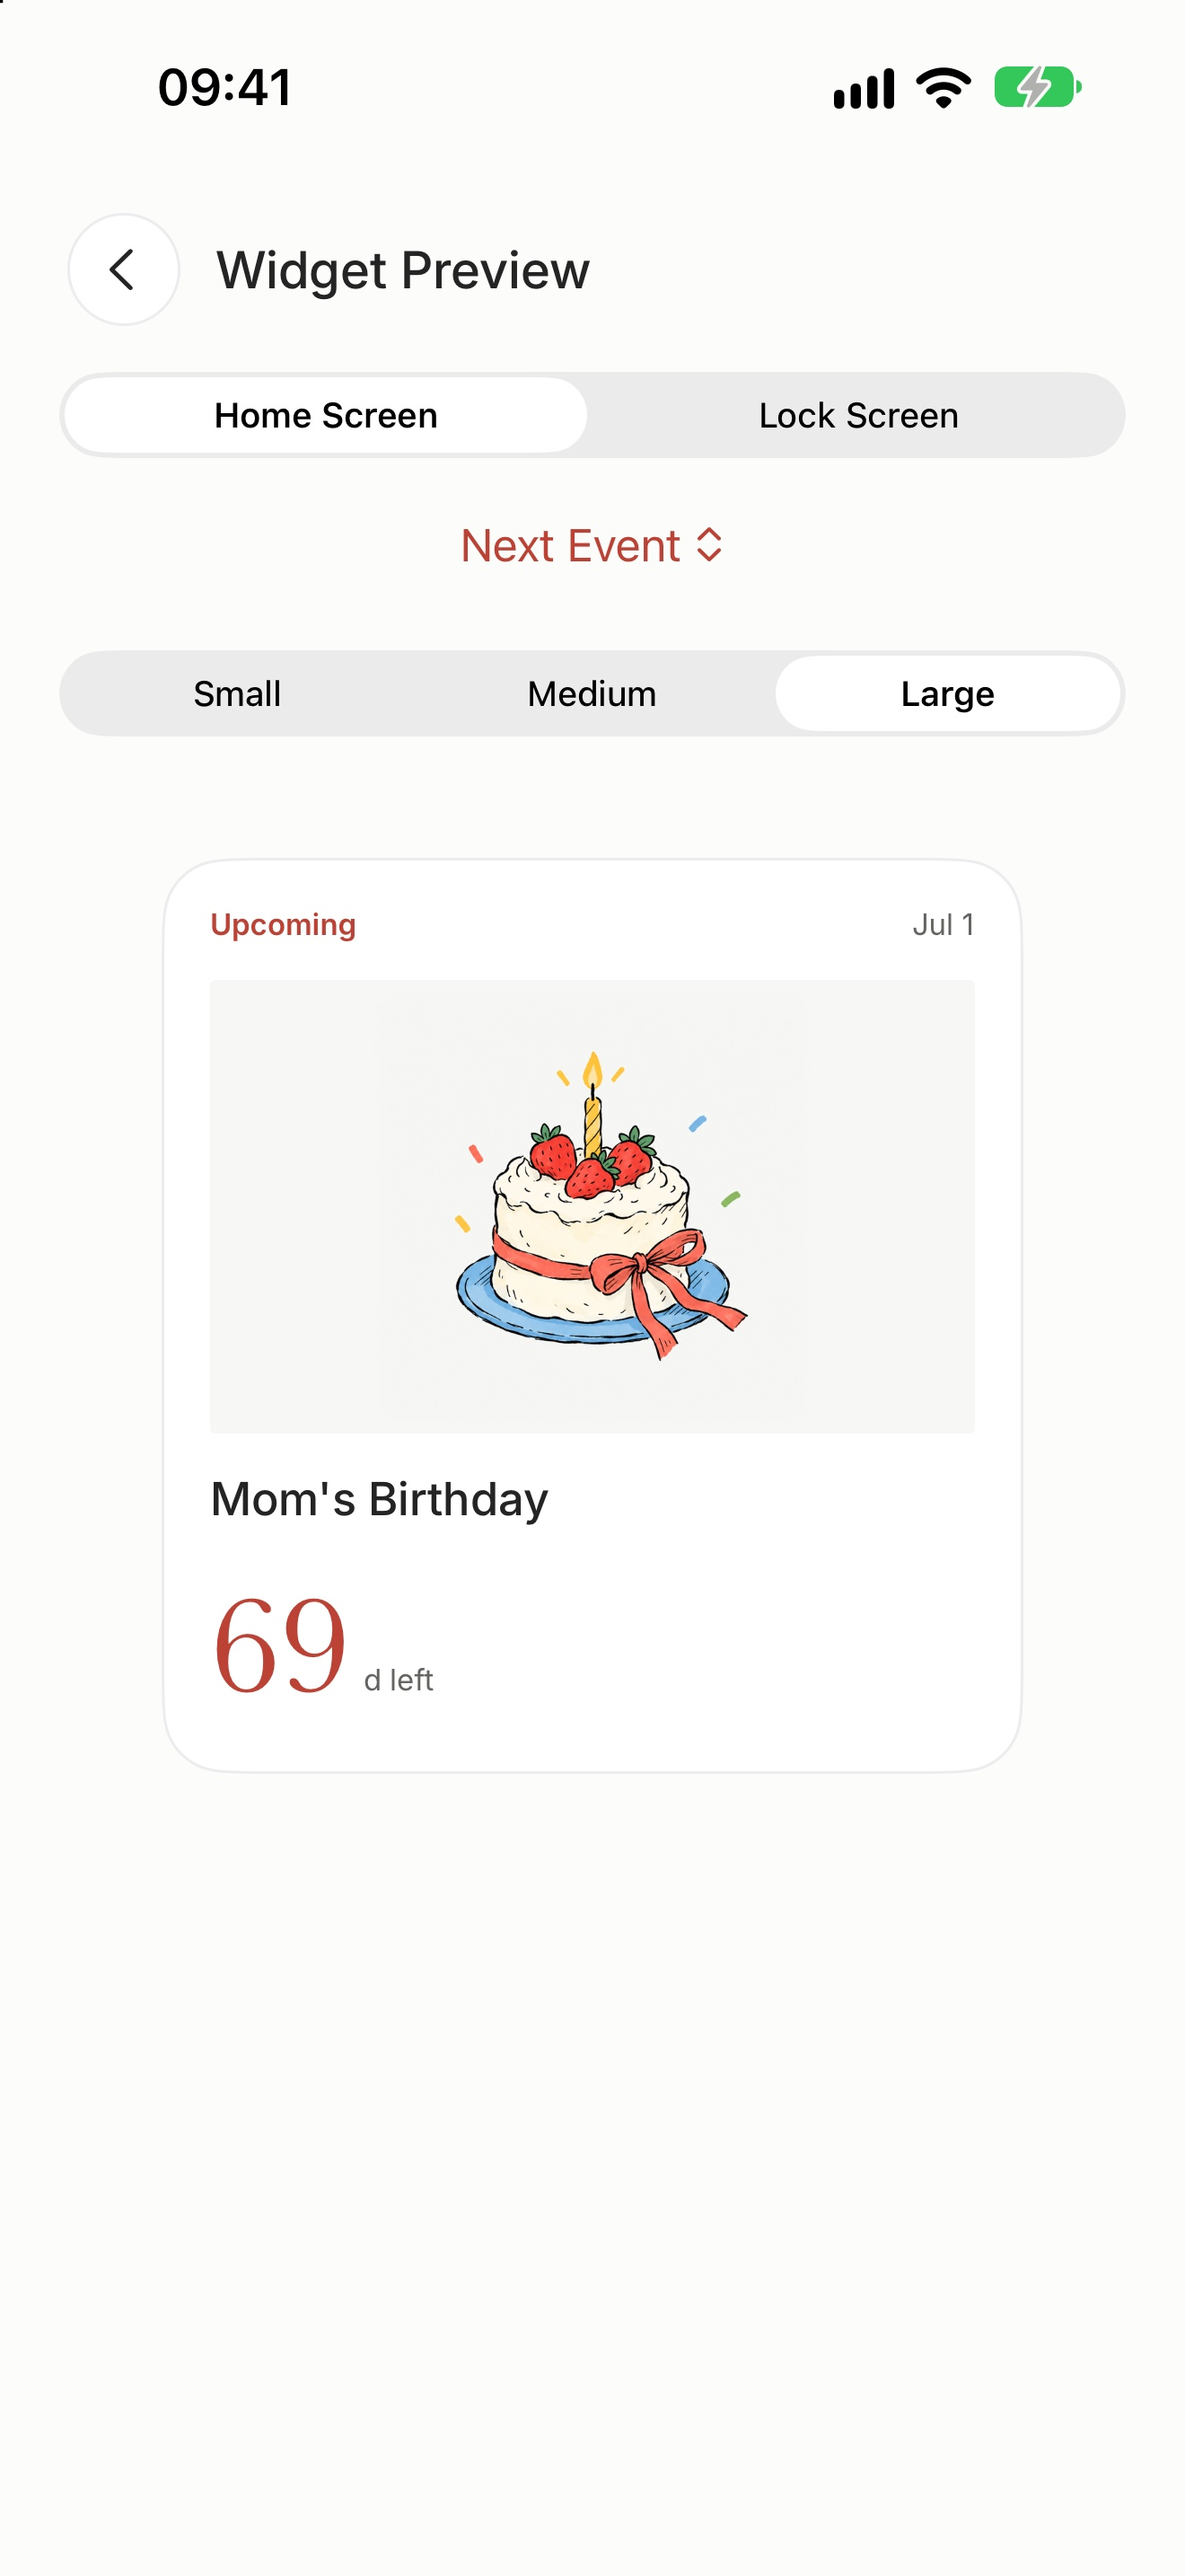
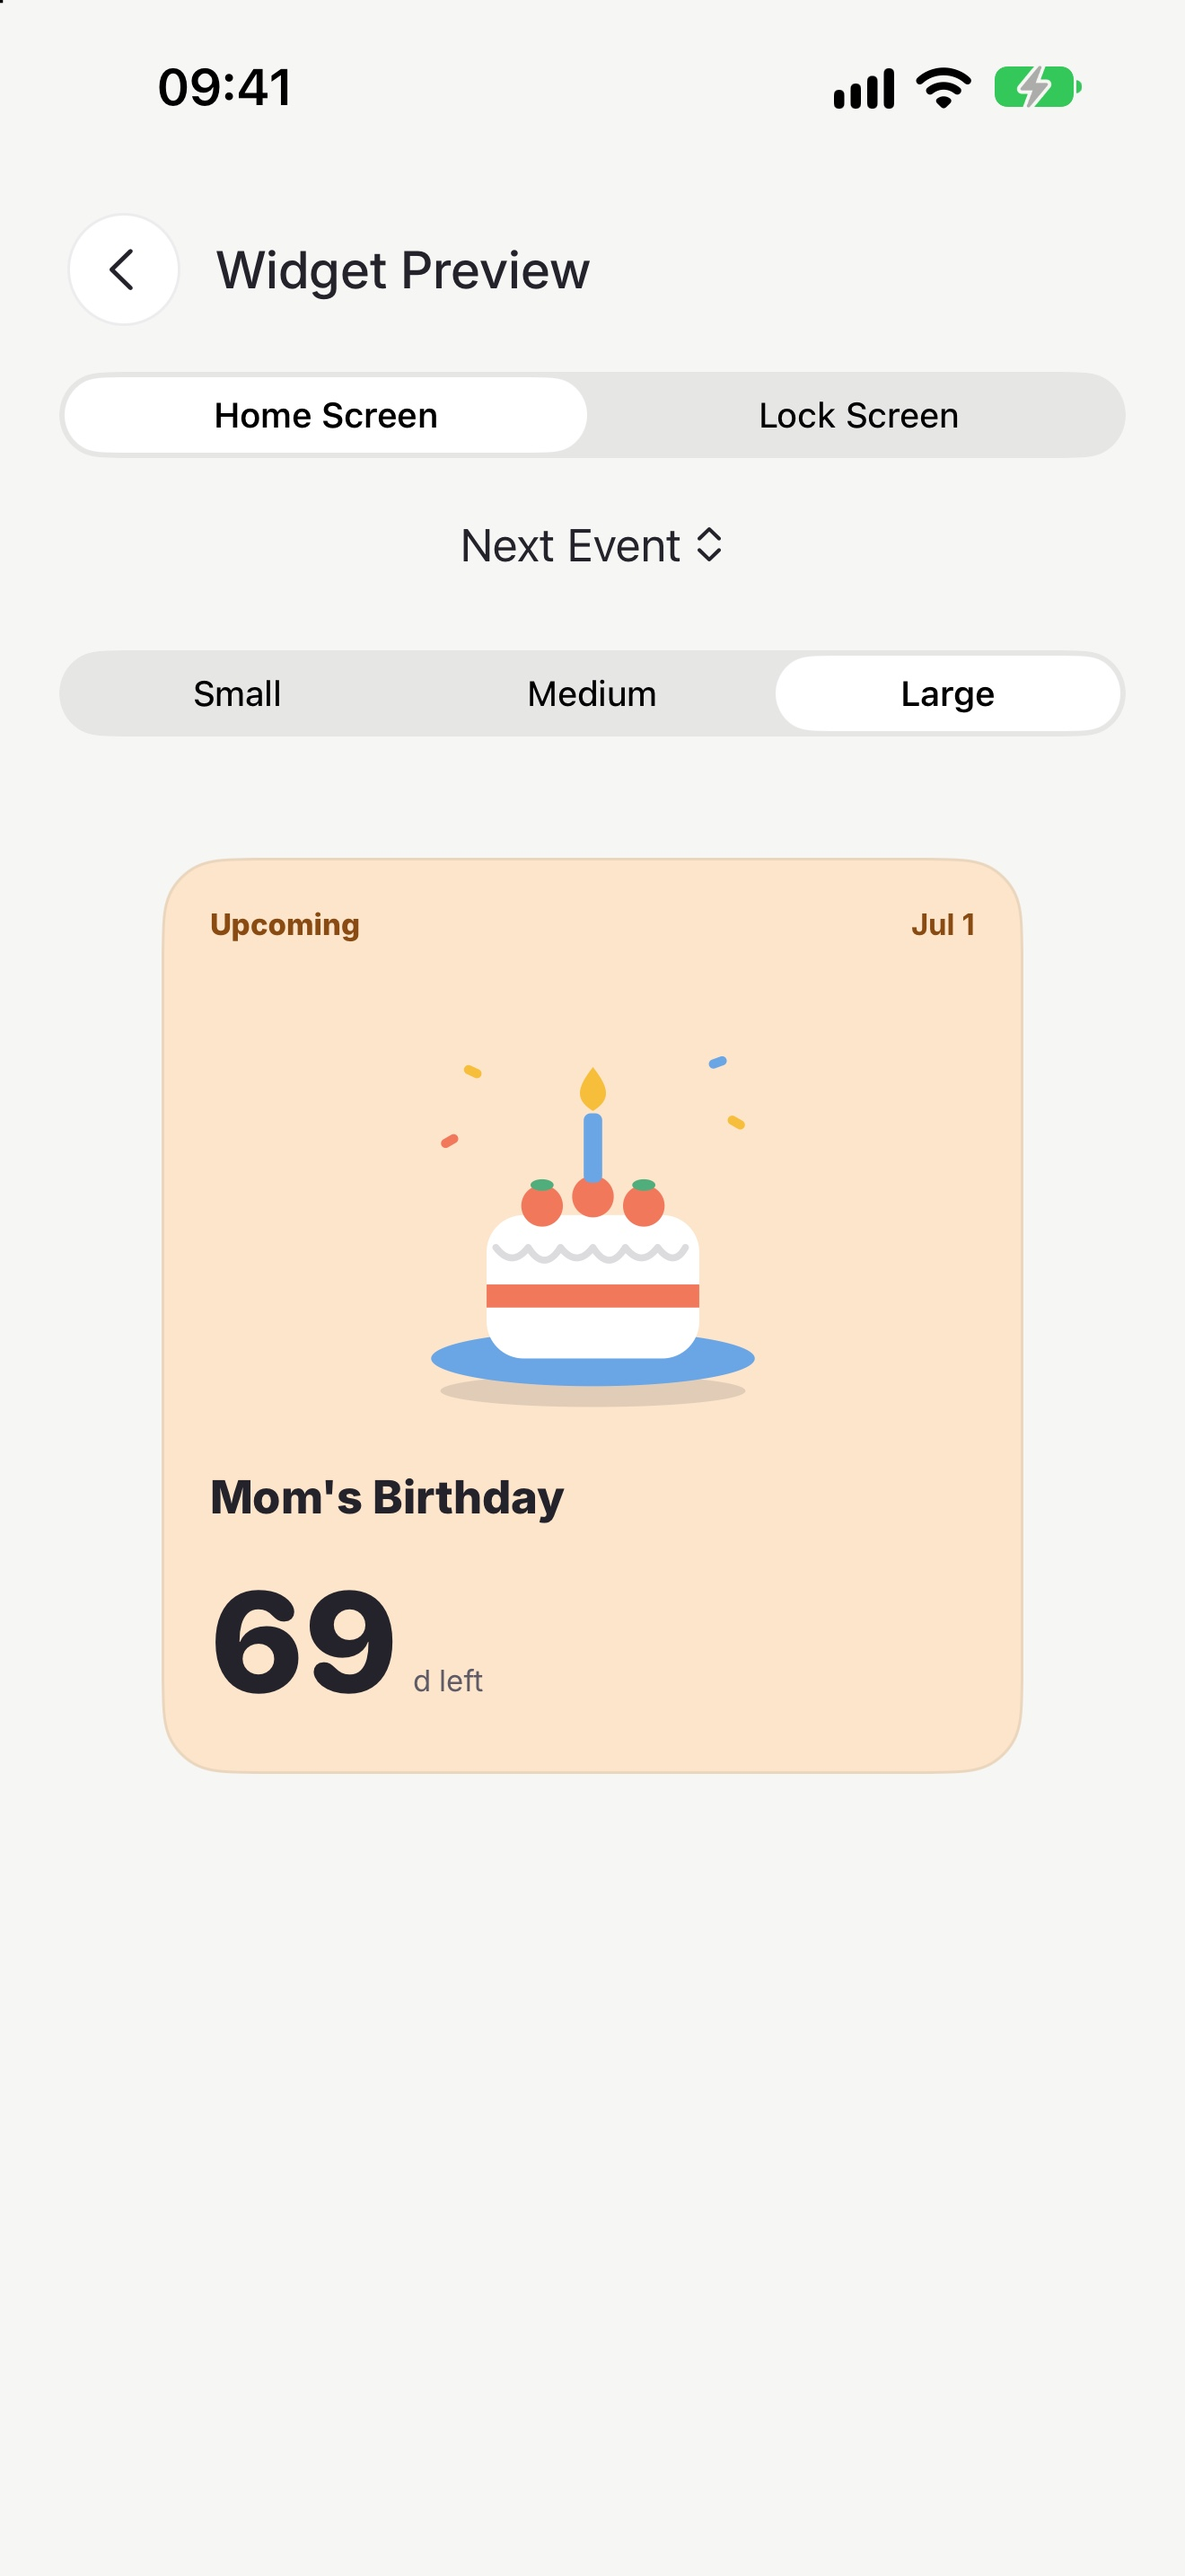
docs(screenshots): regenerate for the pastel bento redesign
The sixth shot is now 我的 (06-me) instead of the categories tab, and a
seventh shows home's 已过 face (07-past). scripts/screenshots.sh captures
both; the README lists them.

Changed region(s): [[0.1242, 0.3103, 0.8697, 0.7137], [0.4038, 0.1862, 0.5591, 0.2172]]

diff --git a/README.md b/README.md
@@ -4,7 +4,7 @@ A multilingual anniversary and countdown app built with SwiftUI, iOS 17+. Native
 
 ## Screenshots
 
-App Store screenshots for the 6.9-inch iPhone slot (1320 × 2868 JPEG, no alpha channel) live in `docs/screenshots/<language>/`: home, day detail, calendar, widget preview, share card, and categories. `bash scripts/screenshots.sh` regenerates all three languages on a disposable iPhone 17 Pro Max, with translated sample days and today pinned to 2026-04-23 (the calendar to 2026-07-08, so the month has days in it). The detail, widget, and share screens are opened directly and therefore show no tab bar.
+App Store screenshots for the 6.9-inch iPhone slot (1320 × 2868 JPEG, no alpha channel) live in `docs/screenshots/<language>/`: home (Ahead), day detail, calendar, widget preview, share card, Me, and home's Past face. `bash scripts/screenshots.sh` regenerates all three languages on a disposable iPhone 17 Pro Max, with translated sample days and today pinned to 2026-04-23 (the calendar to 2026-07-08, so the month has days in it). The detail, widget, and share screens are opened directly and therefore show no tab bar.
 
 `bash scripts/promo-video.sh` draws a promotional video from the Simplified Chinese screenshots and the cover illustrations: 9:16 (1080 × 1920), 30 fps, about 28 seconds, silent, with Chinese captions. It writes `build/promo/days-remember-promo-zh-Hans.mp4` and a contact sheet with one frame per second; add music in an editor before posting.
 
@@ -16,7 +16,8 @@ App Store screenshots for the 6.9-inch iPhone slot (1320 × 2868 JPEG, no alpha 
 <img src="docs/screenshots/zh-Hans/03-calendar.jpg" width="130" alt="Calendar">
 <img src="docs/screenshots/zh-Hans/04-widgets.jpg" width="130" alt="Widget preview">
 <img src="docs/screenshots/zh-Hans/05-share.jpg" width="130" alt="Share card">
-<img src="docs/screenshots/zh-Hans/06-categories.jpg" width="130" alt="Categories">
+<img src="docs/screenshots/zh-Hans/06-me.jpg" width="130" alt="Me">
+<img src="docs/screenshots/zh-Hans/07-past.jpg" width="130" alt="Past">
 </p>
 
 **繁體中文**
@@ -27,7 +28,8 @@ App Store screenshots for the 6.9-inch iPhone slot (1320 × 2868 JPEG, no alpha 
 <img src="docs/screenshots/zh-Hant/03-calendar.jpg" width="130" alt="Calendar">
 <img src="docs/screenshots/zh-Hant/04-widgets.jpg" width="130" alt="Widget preview">
 <img src="docs/screenshots/zh-Hant/05-share.jpg" width="130" alt="Share card">
-<img src="docs/screenshots/zh-Hant/06-categories.jpg" width="130" alt="Categories">
+<img src="docs/screenshots/zh-Hant/06-me.jpg" width="130" alt="Me">
+<img src="docs/screenshots/zh-Hant/07-past.jpg" width="130" alt="Past">
 </p>
 
 **English**
@@ -38,7 +40,8 @@ App Store screenshots for the 6.9-inch iPhone slot (1320 × 2868 JPEG, no alpha 
 <img src="docs/screenshots/en/03-calendar.jpg" width="130" alt="Calendar">
 <img src="docs/screenshots/en/04-widgets.jpg" width="130" alt="Widget preview">
 <img src="docs/screenshots/en/05-share.jpg" width="130" alt="Share card">
-<img src="docs/screenshots/en/06-categories.jpg" width="130" alt="Categories">
+<img src="docs/screenshots/en/06-me.jpg" width="130" alt="Me">
+<img src="docs/screenshots/en/07-past.jpg" width="130" alt="Past">
 </p>
 
 ## Website
